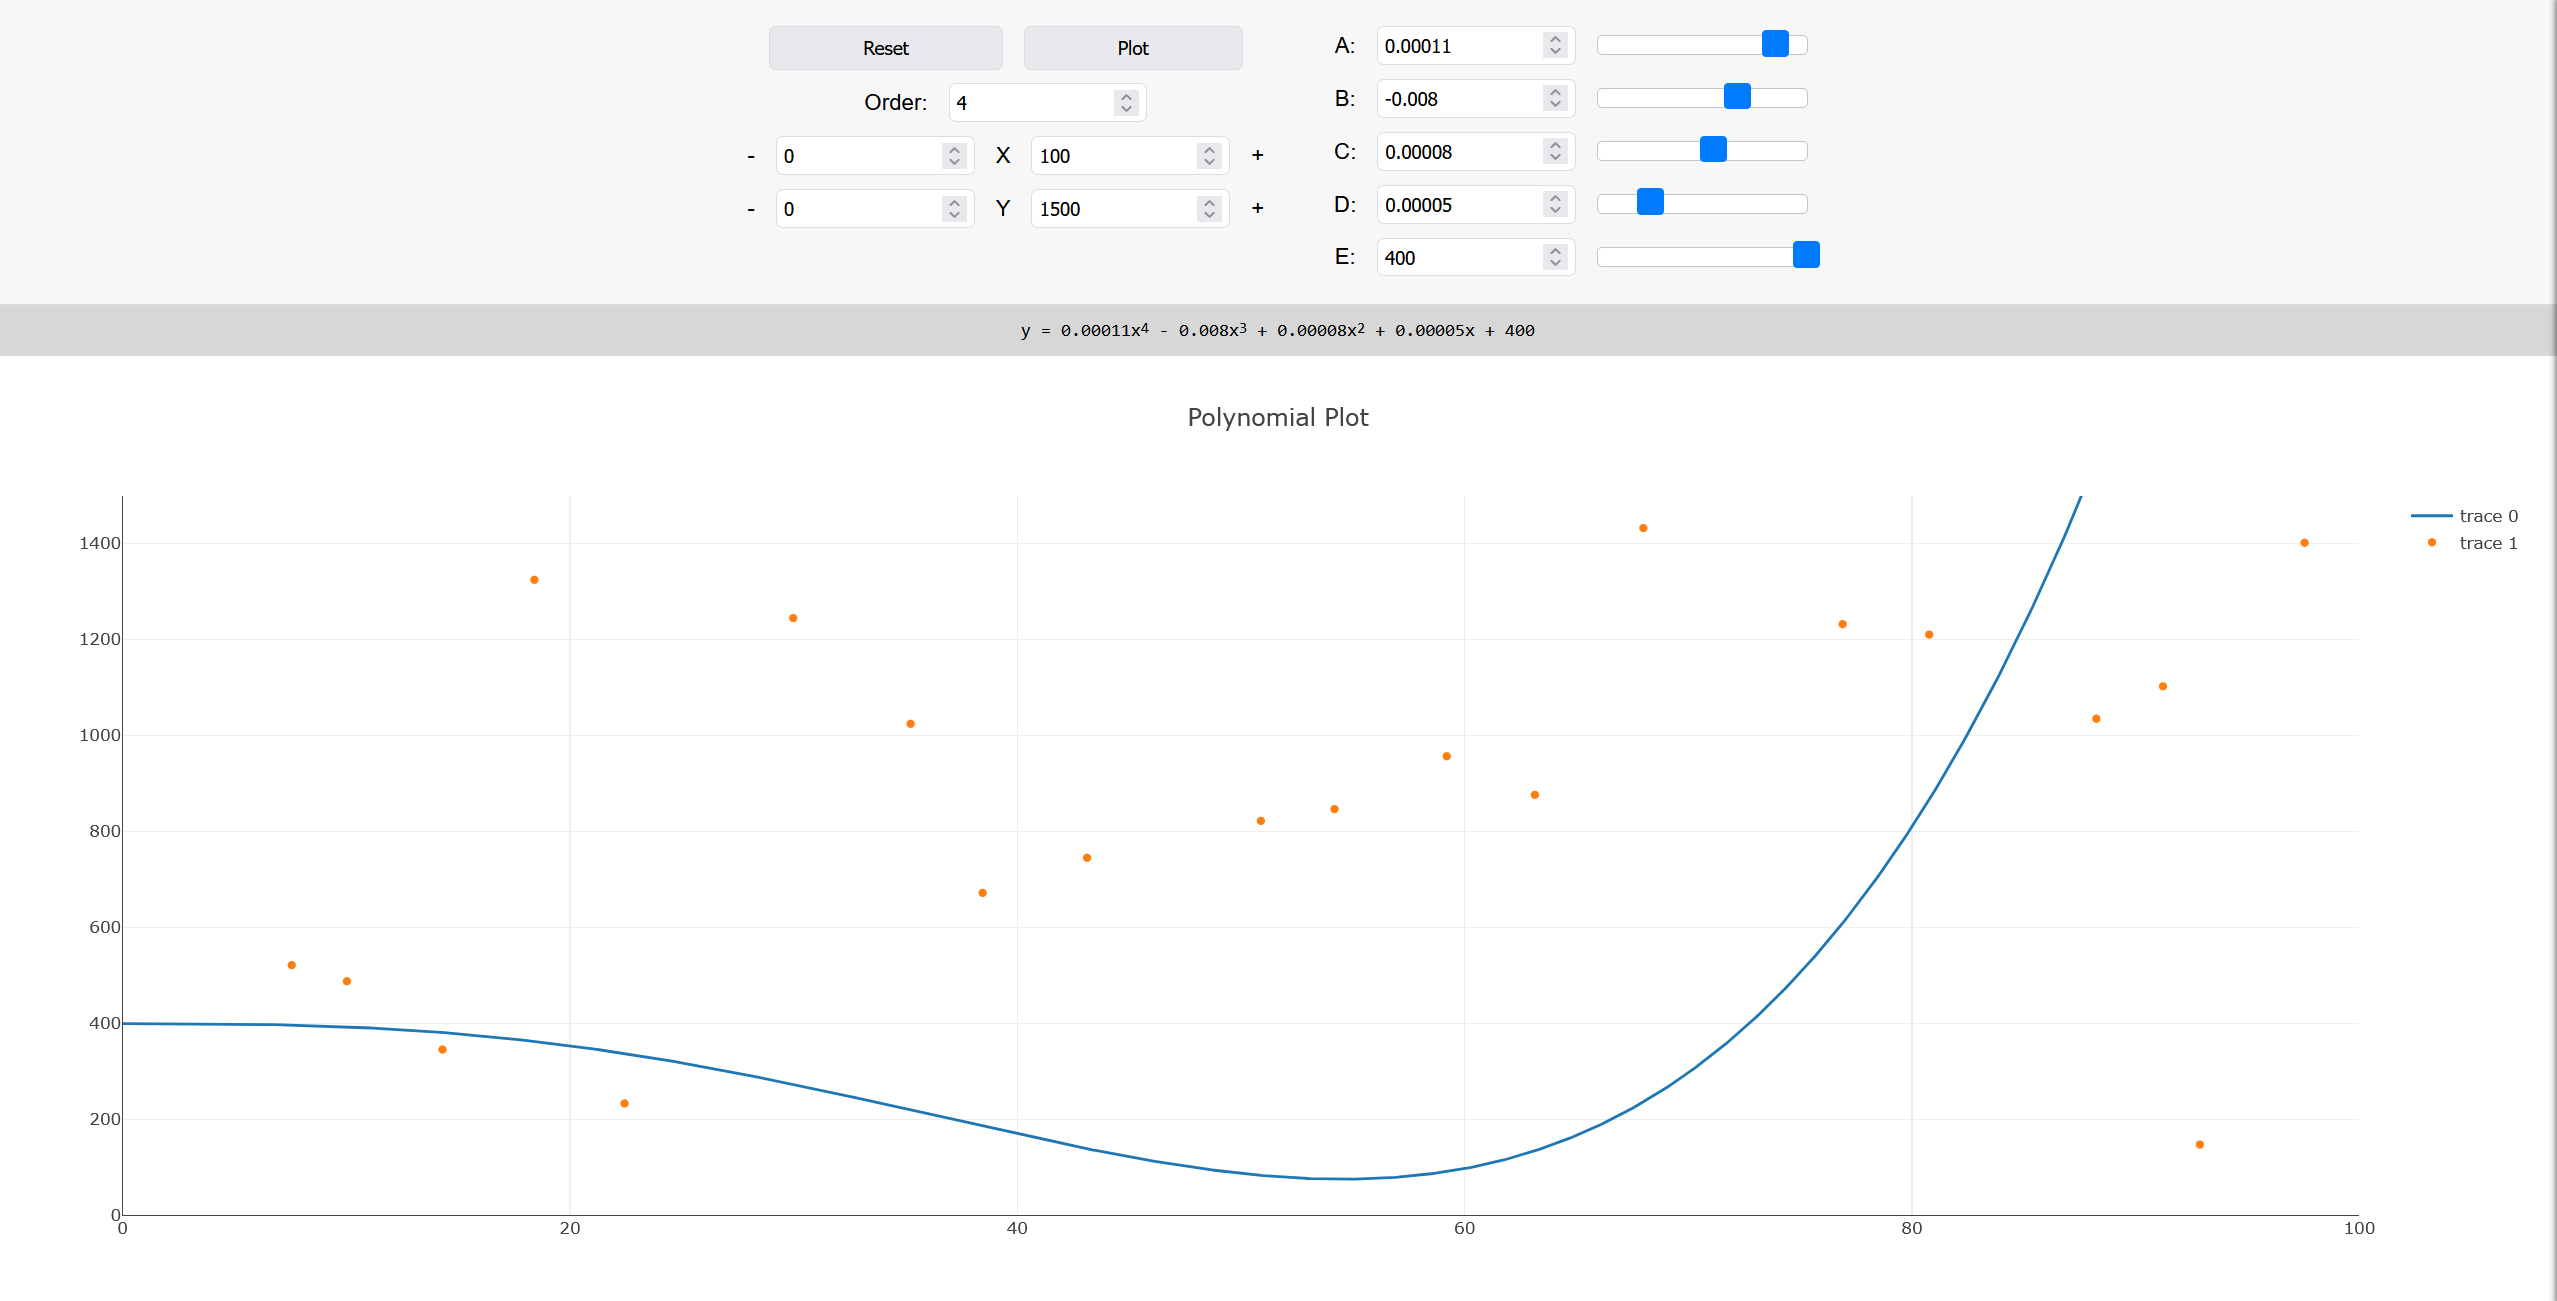
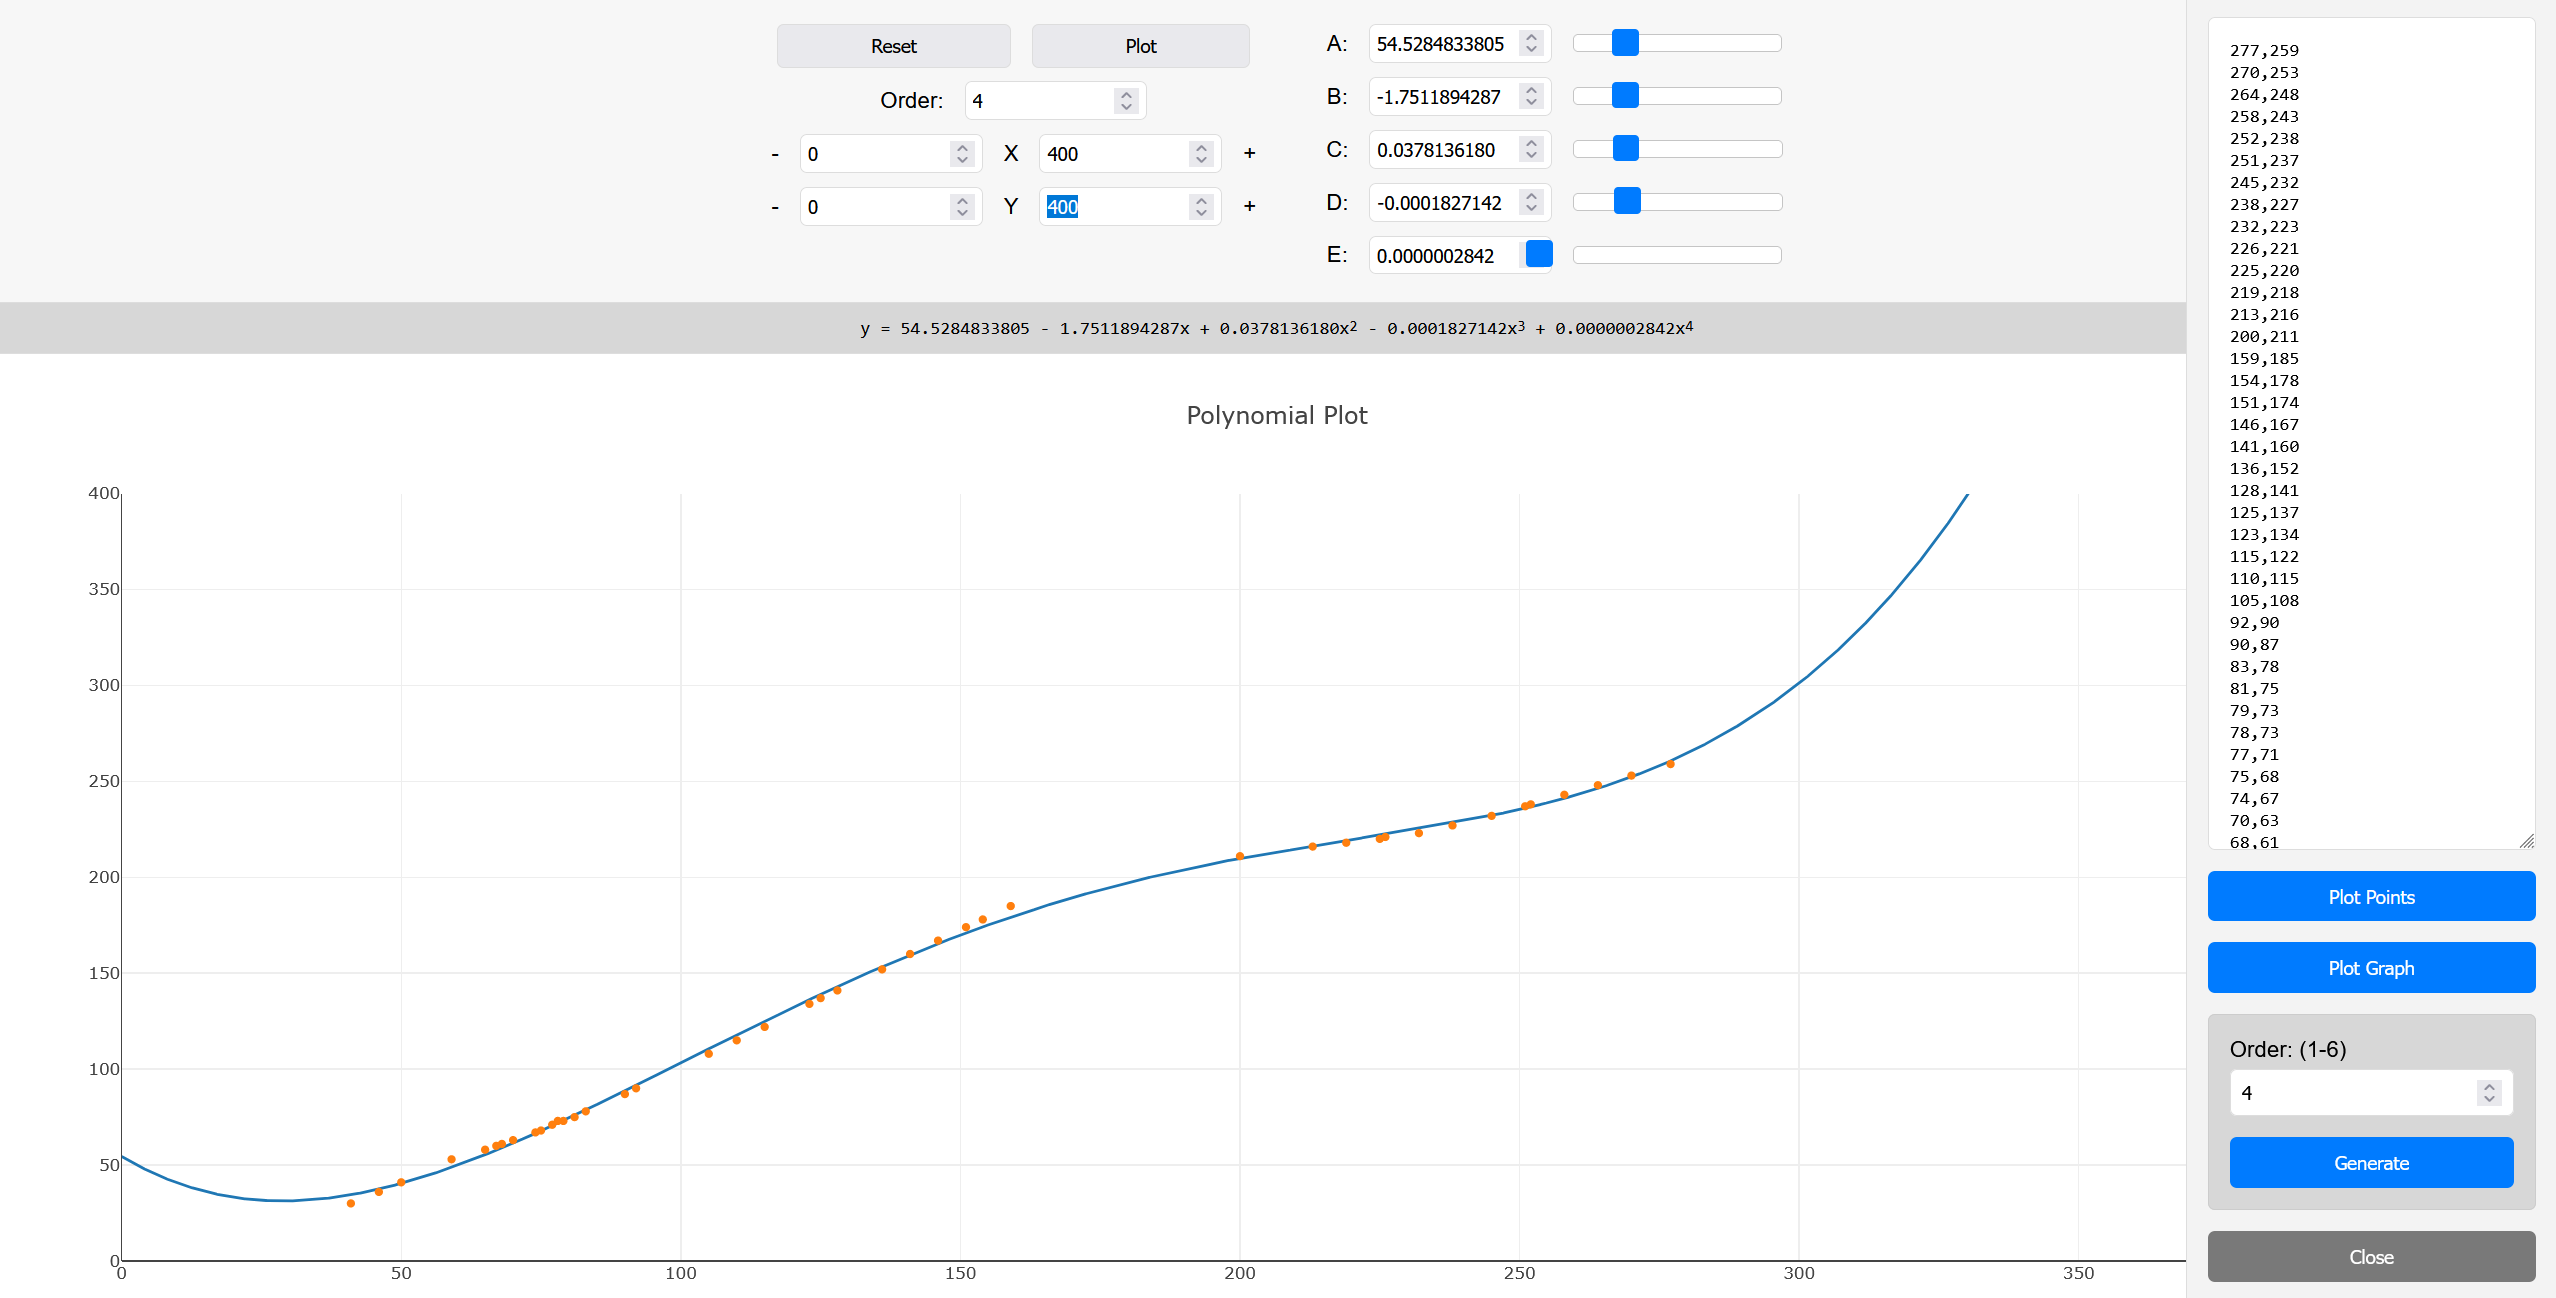
updated readme

diff --git a/README.md b/README.md
@@ -1,33 +1,26 @@
 # Polynomial Visualizer
 
-Polynomial Visualizer is a web application that allows users to visualize polynomial functions. Users can interactively change the parameters of the polynomial and see the resulting graph update in real-time.
+This web application allows users to perform polynomial regression on a set of data points and visualize the resulting polynomial curve. The app provides an intuitive interface to input data points, configure polynomial order, and adjust coefficients interactively.
+
+### Features
+
+- **Data Input**: Enter data points manually or via CSV input.
+- **Polynomial Regression**: Fit polynomial curves to the data points with adjustable order from 1 to 6.
+- **Coefficient Adjustment**: Modify polynomial coefficients dynamically and see the effect on the curve in real-time.
+- **Visualization**: Interactive plotting using Plotly, displaying both the fitted polynomial and the original data points.
+- **URL Parameters**: Save and share your configurations via URL parameters.
+- **Responsive Design**: Adjusts the plot to fit any screen size.
 
 ![Screenshot](screenshot.png?raw=true "Screenshot of Plotting Window")
 
-## Features
+### Usage
 
-- Interactive user interface to adjust polynomial parameters.
-- Visualization of polynomial graphs using Plotly.
-- Adjustable axes ranges for better graph analysis.
-- Reset functionality to quickly revert to default settings.
-
-## Technologies Used
-
-- HTML5
-- CSS3
-- JavaScript
-- jQuery
-- jQuery UI
-- Plotly.js
-
-## Getting Started
-
-### Prerequisites
-
-Ensure you have the following installed:
-
-- A modern web browser (e.g., Google Chrome, Mozilla Firefox)
-- An internet connection (for loading external libraries)
+1. **Input Data**: Enter data points in the provided input field or load from a CSV file.
+2. **Set Polynomial Order**: Select the desired polynomial order (degree) for fitting.
+3. **Adjust Coefficients**: Use the sliders or input fields to adjust the polynomial coefficients manually.
+4. **Specify Intercept**: Optionally set a custom intercept value.
+5. **Update Plot**: The polynomial curve and data points are plotted interactively as parameters are adjusted.
+6. **Save and Share**: Configurations can be saved and shared using URL parameters.
 
 ### Installation
 
@@ -45,26 +38,27 @@ Ensure you have the following installed:
 
 3. Open `index.html` in your web browser.
 
-### Usage
-
-1. **Order Selection**: Use the input field labeled `Order` to set the degree of the polynomial (1-6).
-2. **X-axis Range**: Adjust the minimum and maximum X values using the respective input fields.
-3. **Y-axis Range**: Adjust the minimum and maximum Y values using the respective input fields.
-4. **Parameters**: Adjust the polynomial parameters in the dynamically generated input fields.
-5. **Reset**: Click the `Reset` button to revert all settings to their default values.
-6. The polynomial formula and its graph will be displayed and updated in real-time.
-
 ## File Structure
 
 - `index.html`: The main HTML file that contains the structure of the web application.
 - `styles.css`: The CSS file for styling the web application.
 - `script.js`: The JavaScript file containing the logic for interactive elements and visualization.
 
+## Technologies
+
+- HTML5
+- CSS3
+- JavaScript
+- jQuery
+- jQuery UI
+
 ## License
 
 This project is licensed under the MIT License - see the [LICENSE](LICENSE) file for details.
 
 ## Contributing
+
+Contributions are welcome! Feel free to open issues or submit pull requests for improvements and bug fixes.
 
 1. Fork the repository.
 2. Create your feature branch (`git checkout -b feature/fooBar`).
@@ -74,9 +68,9 @@ This project is licensed under the MIT License - see the [LICENSE](LICENSE) file
 
 ## Acknowledgements
 
-- [jQuery](https://jquery.com/)
-- [jQuery UI](https://jqueryui.com/)
-- [Plotly.js](https://plotly.com/javascript/)
+- **Plotly.js**: For plotting the polynomial curve and data points.
+- **Polyfit.js**: Custom script for performing polynomial regression.
+- **jQuery**: For DOM manipulation and event handling.
 
 ---
 
